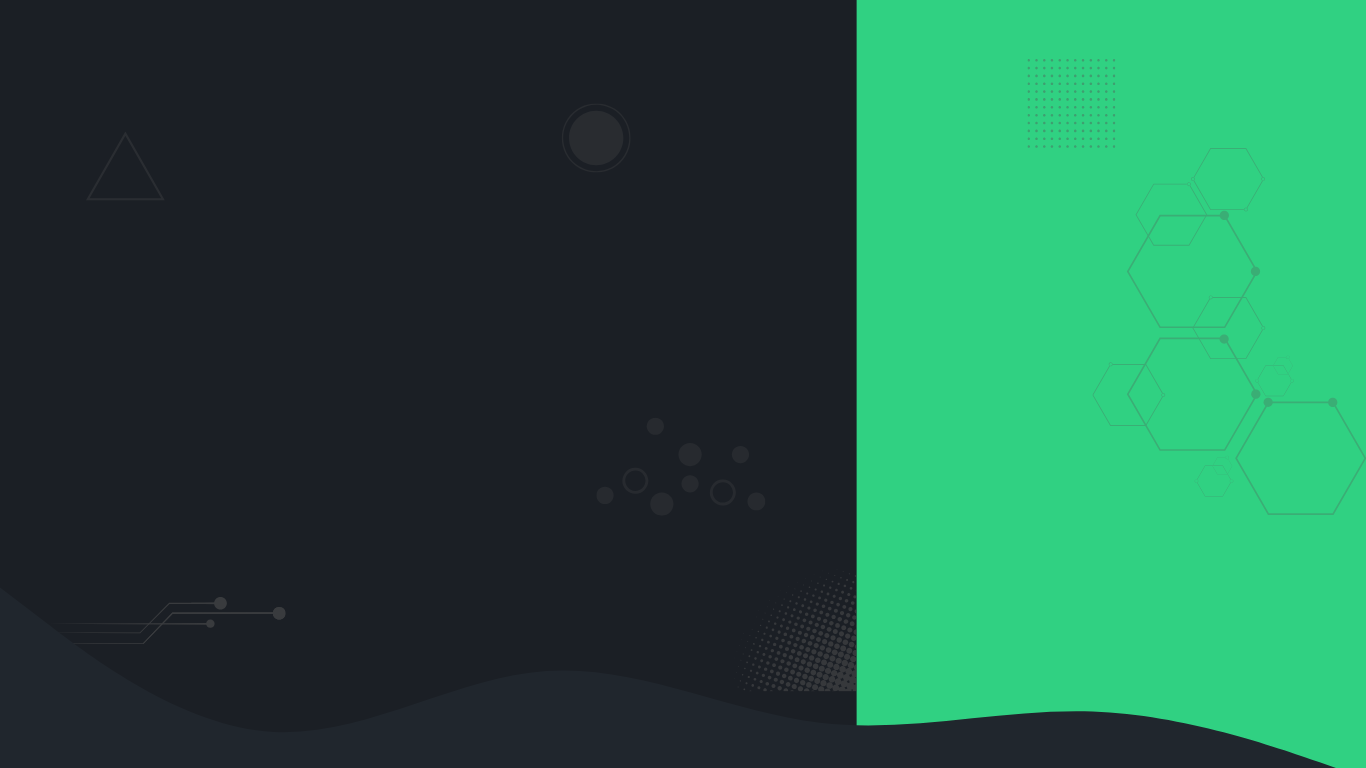
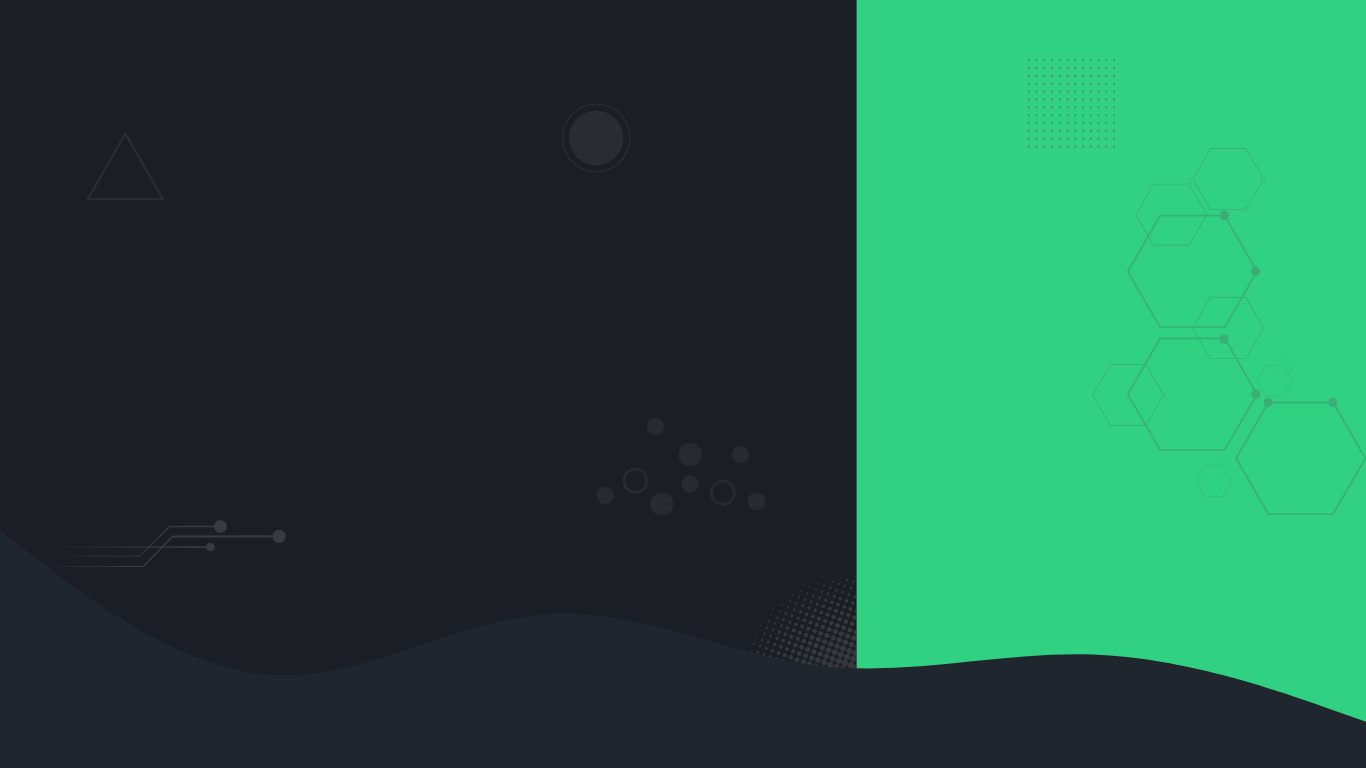
update fundo e parallax

Changed region(s): [[0.6149, 0.8438, 1.0, 1.0], [0.123, 0.7812, 0.2152, 0.8125], [0.1537, 0.6875, 0.2152, 0.7188]]

diff --git a/css/home.css b/css/home.css
@@ -6,7 +6,179 @@
   left: 0;
   width: 100%;
   z-index: 999;
-  
+  background: transparent;
+}
+
+.nav-bar {
+  display: flex;
+  justify-content: space-between;
+  align-items: center;
+  height: 70px;
+  padding: 0 20px;
+}
+
+.logo {
+  font-size: 1.5rem;
+  font-weight: 700;
+  color: #fff;
+}
+
+.nav-links {
+  display: flex;
+  gap: 25px;
+}
+
+.nav-links li {
+  list-style: none;
+}
+
+.nav-links li a {
+  font-weight: 500;
+  color: #fff;
+  text-decoration: none;
+  transition: color 0.3s;
+}
+
+.nav-links li a::after {
+  content: '';
+  display: block;
+  width: 0;
+  height: 2px;
+  background-color: #fff;
+  transition: width 0.3s;
+}
+
+.nav-links li a:hover::after {
+  width: 100%;
+}
+
+.nav-links li a:hover {
+  color: #30d182;
+  box-shadow: 0 2px 10px rgba(0,0,0,0.1);
+  transform: translateY(-1px);
+}
+
+.btn-contato {
+  display: inline-block;
+  color: #fff;
+  font-size: 1rem;
+  padding: 10px 18px;
+  border-radius: 8px;
+  border: 1px solid #555;
+  text-decoration: none;
+  transition: background 0.3s;
+}
+
+.btn-contato:hover {
+  background-color: #28b76e;
+  box-shadow: 0 3px 10px rgba(0,0,0,0.1);
+  color: #fff;
+  transform: translateY(-1px);
+}
+
+/* BACKGROUND DAS SEÇÕES */
+.bg-section {
+  min-height: 100vh;
+  background-size: cover;
+  background-position: center;
+  background-repeat: no-repeat;
+  display: flex;
+  align-items: center;
+  justify-content: center;
+}
+
+.bg1 {
+  background-image: url('../assets/fundo.png');
+}
+
+.bg2 {
+  background-image: url('../assets/fundo2.png');
+}
+
+/* HERO SECTION */
+.hero-section {
+  display: flex;
+  align-items: center;
+  justify-content: center;
+  padding: 120px 20px 80px;
+  flex-wrap: wrap;
+  gap: 40px;
+  max-width: 1200px;
+  margin: 0 auto;
+  color: #fff;
+}
+
+.text-content {
+  flex: 2;
+  max-width: 600px;
+}
+
+.text-content h1 {
+  font-size: 2.5rem;
+  margin-bottom: 10px;
+}
+
+.text-content h2 {
+  font-size: 1.5rem;
+  font-weight: 400;
+  margin-bottom: 15px;
+  color: #fff;
+}
+
+.text-content p {
+  font-size: 1rem;
+  margin-bottom: 25px;
+}
+
+.destaque {
+  color: #30d182;
+}
+
+.btn-cta {
+  display: inline-block;
+  background-color: #30d182;
+  color: #fff;
+  padding: 12px 20px;
+  border-radius: 8px;
+  font-weight: 500;
+  text-decoration: none;
+  transition: background 0.3s;
+}
+
+.btn-cta:hover {
+  background-color: #28b76e;
+  box-shadow: 0 3px 10px rgba(0,0,0,0.1);
+}
+
+.img-content {
+  flex: 1;
+  text-align: center;
+}
+
+.foto-pessoal {
+  max-width: 700px;
+  width: 100%;
+  border-radius: 12px;
+}
+
+/* SOBRE MIM */
+.sobre-mim-section {
+  padding: 80px 20px;
+  text-align: center;
+  background-color: rgba(255,255,255,0.85); /* leve contraste no texto */
+  border-radius: 12px;
+}
+
+.sobre-mim-section h2 {
+  font-size: 2rem;
+  margin-bottom: 20px;
+}
+
+.sobre-mim-section p {
+  max-width: 800px;
+  margin: 0 auto;
+  font-size: 1.1rem;
+  color: #444;
 }
 
 .nav-bar {
@@ -196,3 +368,17 @@
   color: #444;
 }
 
+.background-forma2 {
+  position: fixed;
+  top: 0;
+  left: 0;
+  width: 100%;
+  height: 100vh; /* altura total da tela */
+  background-image: url('../assets/fundo2.png'); /* <-- seu fundo */
+  background-size: cover;
+  background-position: center;
+  background-repeat: no-repeat;
+  background-attachment: fixed; /* faz o parallax */
+  z-index: -1;
+  pointer-events: none;
+}

diff --git a/index.html b/index.html
@@ -31,26 +31,24 @@
     </div>
   </header>
 
-  <!-- HERO SECTION -->
-  <section class="hero-section">
-    <div class="text-content" data-aos="fade-up">
-      <h1>Olá, eu sou <span class="destaque">Alexandre Lemes</span></h1>
-      <h2>Desenvolvedor Web e Designer Criativo</h2>
-      <p>Crio sites, designs, edições e 3D pra transformar ideias em realidade.</p>
-      <a href="#portfolio" class="btn-cta">Ver Portfólio</a>
-    </div>
-    <div class="img-content" data-aos="fade-left">
-      <img src="assets/Foto ale.png" alt="Foto" class="foto-pessoal" />
+  <!-- SECTION COM BACKGROUND 1 -->
+  <section class="bg-section bg1">
+    <div class="hero-section">
+      <div class="text-content" data-aos="fade-up">
+        <h1>Olá, eu sou <span class="destaque">Alexandre Lemes</span></h1>
+        <h2>Desenvolvedor Web e Designer Criativo</h2>
+        <p>Crio sites, designs, edições e 3D pra transformar ideias em realidade.</p>
+        <a href="#portfolio" class="btn-cta">Ver Portfólio</a>
+      </div>
+      <div class="img-content" data-aos="fade-left">
+        <img src="assets/Foto ale.png" alt="Foto" class="foto-pessoal" />
+      </div>
     </div>
   </section>
 
-  <!-- Fundo decorativo -->
-  <div class="background-forma"></div>
-
-  <!-- SOBRE MIM -->
-
-  <section id="sobre-mim" class="sobre-mim-section">
-    <div class="content">
+  <!-- SECTION COM BACKGROUND 2 -->
+  <section id="sobre-mim" class="bg-section bg2">
+    <div class="sobre-mim-section">
       <h2 data-aos="fade-right">Sobre Mim</h2>
       <p data-aos="fade-up">Sou um desenvolvedor web apaixonado por transformar ideias em experiências incríveis. Trabalho com design, desenvolvimento e criações em 3D.</p>
     </div>
